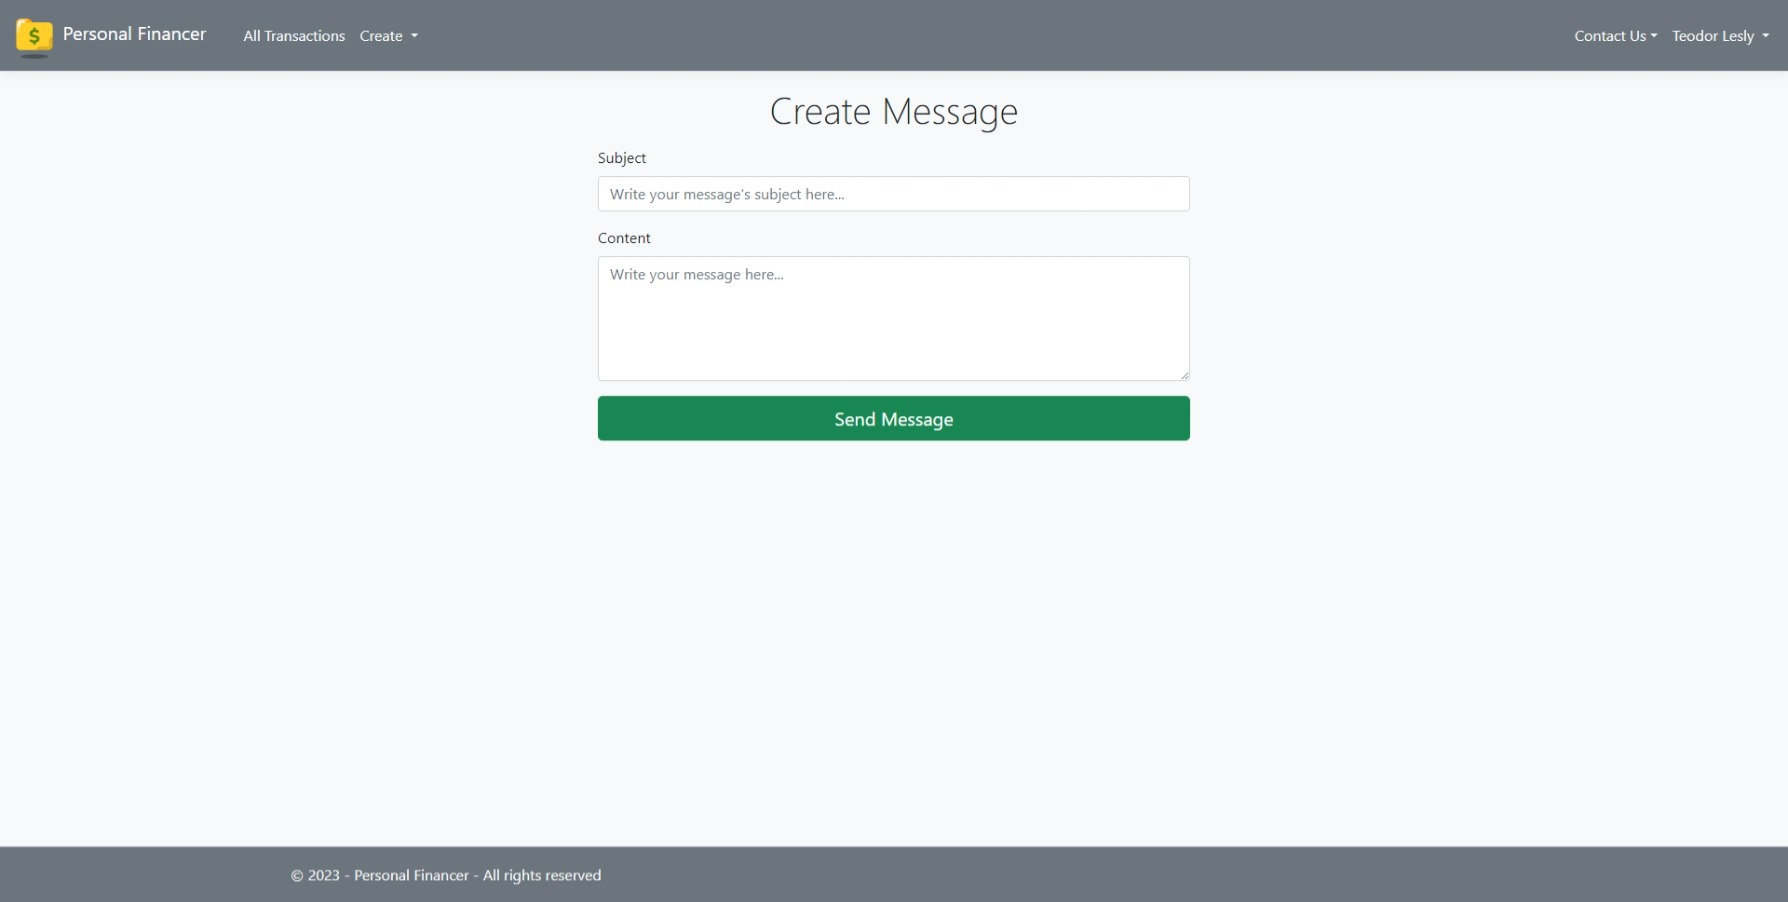
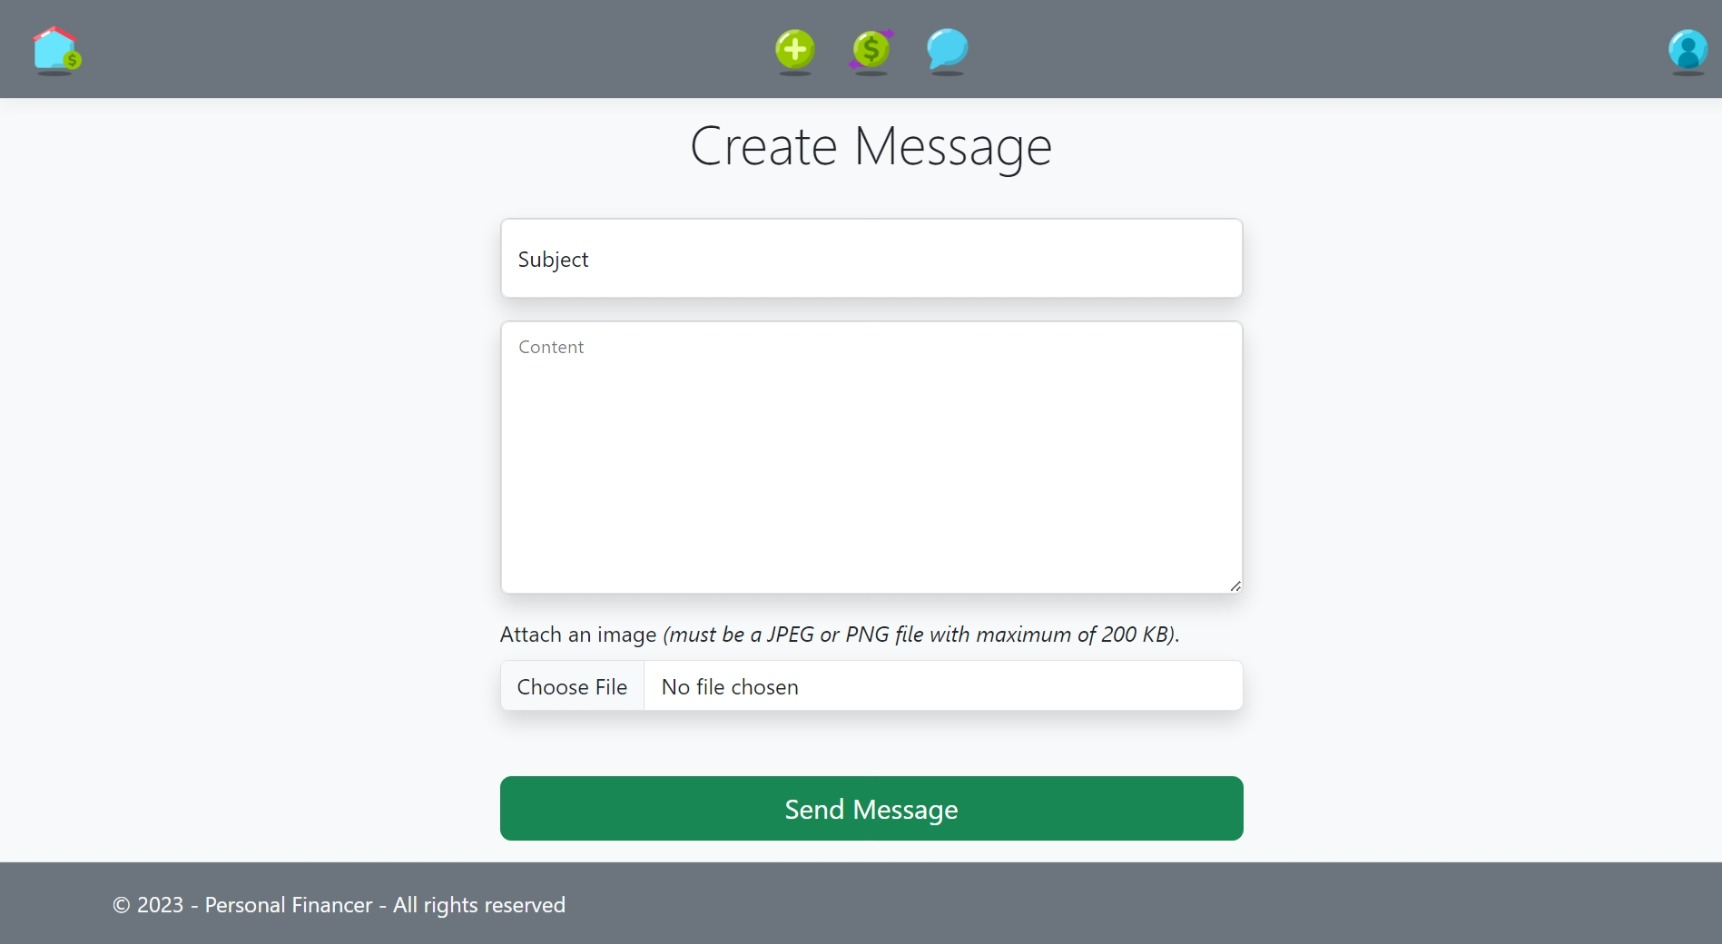
Updated README.md

diff --git a/README.md b/README.md
@@ -15,18 +15,26 @@ I created this project to practice my skills, and it will also serve as my defen
 - ASP.NET Core 6
     - MVC
     - Web API
-    - SendGrid
+    - SignalR (in the messages functionality)
+    - SendGrid (for email confirmation)
     - AutoMapper
-    - Cache in-memory
+    - Cache in-memory (on the create account and transactions pages, loading users dropdown data)
+    - Logger
+    - Custom action filter and attribute (for HTML sanitizing)
+    - Model binders (for decimal and datetime binding)
     - TempData messages
+    - Admin Area
+    - Partial views
     - Moq
     - NUnit
     - Bootstrap
+    - Modal components (for transaction details)
     - HTML5 Canvas
 - JavaScript for AJAX requests and DOM manipulations
 - Entity Framework Core
 - Microsoft SQL Server
 - MongoDB (for Messages)
+- Azure
 
 ## How to Run the Project
 
@@ -34,26 +42,34 @@ The Project can be easy tested locally. All you need to do:
 1. Populate the appsettings.json file with the required configurations;
 2. That's it! Run the App & Enjoy! :)
 
+![Appsettings File](./Screenshots/appsettings-file.png)
+
 When the App is fired up its will seed the Database with: 
 - Admin - email: admin@admin.com, password: admin123
 - User with accounts and transactions for easy and fast tests - email: petar@mail.com, password: petar123
 
-## Database Diagram
+## Databases
 
+The application uses MS SQL database with 6 entities and MongoDB with 2 entities (Message and Reply).
+
+MS SQL Database Diagram:
 ![Database Diagram](./Screenshots/database-diagram.png)
+
+Mongo DB example of saved documents:
+![MongoDB Documents](./Screenshots/mongodb-documents.png)
 
 ## Features
 
 - [Create, edit and delete accounts, account types and currencies](#accounts-with-type-and-currency)
 - [Create, edit and delete transactions and categories](#transactions-with-category)
 - [User Dashboard](#user-dashboard)
-- [All Transactions page](#all-transactions-page)
+- [Transactions page](#all-transactions-page)
 - [Messages](#messages)
 - [User Roles](#user-roles)
 - [Responsive design](#responsive-design)
 
 
-Personal Financer is a website for recording your cash flow and analyzing it.
+Personal Financer is a website for recording your money flow and analyzing it.
 
 ![Welcome Guest Page](./Screenshots/welcome-page.jpeg)
 
@@ -65,25 +81,27 @@ Personal Financer is a website for recording your cash flow and analyzing it.
 
 You can create your own accounts with name, balance, account type and currency.
 
+When you click on 'Create new account type' or 'Create new currency', you can create your own account types like 'Bank account' or 'Savings account', for example, and currencies. If the 'Delete' buttons are clicked, the selected account type or currency will be deleted after confirmation. This feature utilizes AJAX and Web APIs.
+
 ![Create Account Page](./Screenshots/create-account-page.jpeg)
 
-When you click on 'Create New Account Type' or 'Create New Currency', you can create your own account types and currencies. If the 'Delete' buttons are clicked, the selected account type or currency will be deleted after confirmation. This feature utilizes AJAX and Web APIs.
-
-![Create Delete Types](./Screenshots/create-delete-account-type-or-currency.jpeg)
-
-When an account is created, you will be redirected to the new Account Details page. The Personal Financer app automatically creates an Initial Balance Transaction with the amount provided as the Account Balance by you.
+When an account is created, you will be redirected to the new account details page. The Personal Financer app automatically creates an initial balance transaction with the amount provided as the account balance by you.
 
 ![New Account Details Page](./Screenshots/new-account-page.jpeg)
 
-The Details page provides options to Edit and Delete the account, filter transactions for a given period, and display them on separate pages, with 10 transactions per page. The page navigation is handled through AJAX requests and Web APIs on the backend.
+The details page provides options to edit and delete the account (from the three dots dropdown menu), filter transactions for a given period, and display them on separate pages, with 10 transactions per page. The loading of transactions and pages navigation is handled through AJAX requests and Web APIs on the backend.
 
 ![Account Details Page](./Screenshots/account-details-page.jpeg)
 
-On the Edit Account page, you can change the name, balance, account type, and currency of the account. When you change the balance of the account, the app will automatically update the Initial Balance Transaction or create it if the account was initially created with a zero balance. This ensures that all incomes and expenses are adjusted to match the new balance.
+When you click on some transaction a modal window with transaction details shows up.
+
+![Transaction Details Modal](./Screenshots/transaction-details-modal.jpeg)
+
+On the edit account page, you can change the name, balance, account type, and currency of the account. When you change the balance of the account, the app will automatically update the initial balance transaction or create it if the account was initially created with a zero balance. This ensures that all incomes and expenses are adjusted to match the new balance.
 
 ![Edit Account Page](./Screenshots/edit-account-page.jpeg)
 
-If you press 'Delete Account', you will be redirected to confirm your decision. You also have the option to delete all transactions related to the account or leave them to remain in your records.
+On the delete account page, you will need to confirm your decision. You also have the option to delete all transactions related to the account or leave them to remain in your records.
 
 ![Delete Account Confirm Page](./Screenshots/confirm-delete-account-page.jpeg)
 
@@ -91,11 +109,11 @@ If you press 'Delete Account', you will be redirected to confirm your decision. 
 
 ### Transactions with Category
 
-On the Create Transaction page, you can create a transaction with the following details: amount, date, category, account, transaction type, and payment reference. The app provides an option to add and remove categories, utilizing AJAX and Web API.
+On the create transaction page, you can create a transaction with the following details: amount, date, category, account, transaction type, and payment reference. The app provides an option to add and remove categories, utilizing AJAX and Web API.
 
 ![Create Transaction Page](./Screenshots/create-transaction-page.jpeg)
 
-When a transaction is created, you will be redirected to the Transaction Details page. There, the app provides options to edit and delete the transaction.
+When a transaction is created, you will be redirected to the transaction details page. There, the app provides options to edit and delete the transaction.
 
 ![Transaction Details Page](./Screenshots/transaction-details-page.jpeg)
 
@@ -113,40 +131,53 @@ The Dashboard page provides the user with the following information:
 - A section displaying the user's accounts;
 - The last five transactions made from all accounts;
 - Cash flow for the selected period;
-- Expenses structure for the selected period.
+- Expenses structure for the selected period (uses HTML5 Canvas).
 
 ![User Dashboard Page](./Screenshots/user-dashboard-page.jpeg)
 
 [Back to Features <<](#features)
 
-### All transactions page
+### Transactions page
 
-On the All Transactions page, you can manage all of your transactions and filter them by a specific period, for example.
+On the Transactions page, you can manage all of your transactions and filter them by a specific period, account, currency, account type or category, for example. The loading of transactions and pages navigation is handled through AJAX requests and Web APIs on the backend.
 
 ![All Transactions Page](./Screenshots/all-transactions-page.jpeg)
+
+When you click on some transaction a modal window with transaction details shows up.
+
+![Transaction Details Modal](./Screenshots/transactions-page-modal.jpeg)
 
 [Back to Features <<](#features)
 
 ### Messages
 
-Users can write messages to the support team. Every admin can see users messages and reply to them. Messages can be deleted by both users and admins. They are stored in a separate database (MongoDB).
+Users can write messages to the support team. The users also can attach an image to the message. Every admin can see users messages and reply to them. 
+
+The messages functionality uses a SignalR, and all new messages and replies are received in real time by the recipients. They will also receive notifications on the navigation panel and the messages page.
+
+Messages can be archived (only for the user when he archived it or only for the admin when admin archived it) and deleted by both users and admins (will be deleted permanently for everybody). 
+
+The messages are stored in a separate database (MongoDB).
 
 ![Create Message Page](./Screenshots/create-message-page.jpeg)
 
 ![User Messages Page](./Screenshots/user-messages.jpeg)
 
+![User Messages Page](./Screenshots/user-archived-messages.jpeg)
+
 ![Message Details Page](./Screenshots/message-details-page.jpeg)
+
+![Message Details Page](./Screenshots/message-details-page-with-attached-image.jpeg)
 
 [Back to Features <<](#features)
 
 ### User Roles
 
-Personal Financer has two roles - User and Admin.
-Here's what an Admin can do.
+Personal Financer has two roles - User and Admin. Here's what an Admin can do.
 
 ![Admin Home Page](./Screenshots/admin-homepage.jpeg)
 
-An admin can manage all users and their accounts. They can edit and delete accounts and transactions. The administrator has access to information about the number of users and accounts. When the 'More statistics' button on the Home page is pressed, an AJAX request is made to the server to retrieve up-to-date data on the total amount of transactions made by users, grouped by currencies.
+The administrators can manage all users and their accounts. They can edit and delete accounts and transactions, and have access to information about the number of users and accounts. When the 'More statistics' button on the Home page is pressed, an AJAX request is made to the server to retrieve up-to-date data on the total amount of transactions made by users, grouped by currencies.
 
 ![More statistics](./Screenshots/admin-more-statistics.jpeg)
 
